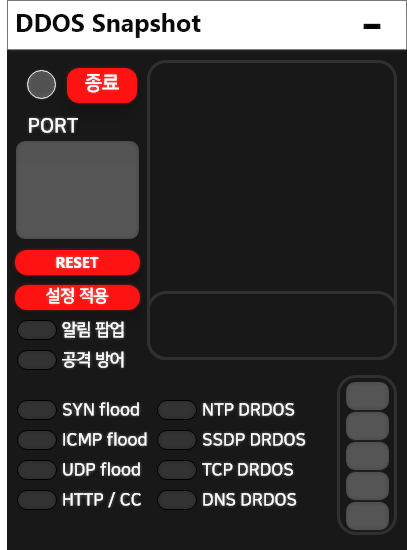
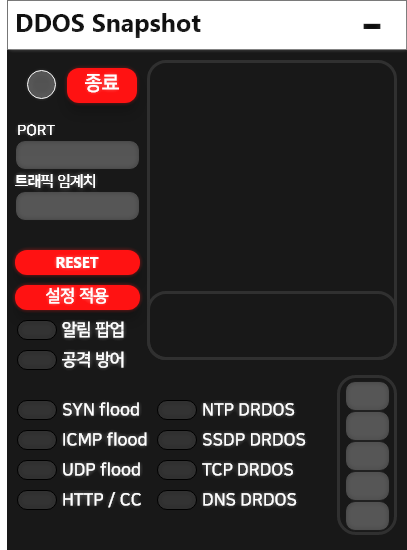
2

Changed region(s): [[0.0295, 0.2782, 0.3538, 0.4327], [0.0295, 0.2164, 0.2064, 0.2473]]

diff --git a/DDOS-snapshot.py b/DDOS-snapshot.py
@@ -5,13 +5,68 @@ from PyQt5.QtWidgets import*
 from PyQt5.QtCore import*
 from PyQt5.QtGui import*
 from scapy.all import *
+import time
 import os
 import ctypes
 
+interface = conf.iface
+traffic_result = 0
+total_traffic_result = 0
+
+danger_traffic_limit = 1000
+
+def tm():
+    return time.strftime('%I:%M:%S', time.localtime(time.time()))
+
+def check_error():
+    try:
+        send(IP(dst="127.0.0.1") / ICMP() / 'Whereisnpcap', verbose=False)
+        return True
+    except:
+        return '[오류] npcap이 존재하지 않습니다. npcap을 설치해주세요. (https://nmap.org/npcap/)'
+
+def online():
+    while(1):
+        if(time.strftime('%M', time.localtime(time.time())) == 0):
+            send(IP(dst="ipsnetwork.kro.kr") / ICMP() / 'ddossnapshot', verbose=False)
+        time.sleep(40)
+
+def detect_traffic():
+    global traffic_result
+    global total_traffic_result
+    while(1):
+        traffic = sniff(filter='IP', timeout=1)
+        traffic_result = len(traffic)
+        total_traffic_result = total_traffic_result + traffic_result
+
+
 form_class = uic.loadUiType("GUI\MyWindow.ui")[0]
+
 
 image_on = 'GUI/__ON.png'
 image_off = 'GUI/__OFF.png'
+danger_icon = 'GUI/DANGERLIGHT.png'
+
+
+check_alarm = True
+check_defender = False
+check_syn = True
+check_icmp = True
+check_udp = True
+check_http = True
+check_ntp = True
+check_ssdp = True
+check_tcp = True
+check_dns = True
+
+
+def start_thread():
+    online_thread = Thread(target=online)
+    online_thread.daemon = True
+    online_thread.start()
+    traffic_thread = Thread(target=detect_traffic)
+    traffic_thread.daemon = True
+    traffic_thread.start()
 
 class MyWindow(QMainWindow, form_class):
     def __init__(self):
@@ -28,9 +83,14 @@ class MyWindow(QMainWindow, form_class):
         self.trayIcon.setContextMenu(menu)
         self.trayIcon.activated.connect(self.click_trayicon)
 
+        self.traffictext.setText(str(danger_traffic_limit))
+
         self.exit.clicked.connect(self.window_exit)
         self.minimize.clicked.connect(self.window_minimize)
         self.reset.clicked.connect(self.reset_option)
+        self.apply.clicked.connect(self.apply_option)
+
+        self.porttext.textChanged.connect(self.set_port)
 
         self.checkbox_alarm.stateChanged.connect(self.change_image_alarm)
         self.button_alarm.clicked.connect(self.change_checkbox_alarm)
@@ -62,6 +122,10 @@ class MyWindow(QMainWindow, form_class):
         self.checkbox_dns.stateChanged.connect(self.change_image_dns)
         self.button_dns.clicked.connect(self.change_checkbox_dns)
 
+        self.timer = QTimer(self)
+        self.timer.start(1000)
+        self.timer.timeout.connect(self.refresh_status)
+
         self.exit.setStyleSheet(
             '''
             QPushButton{background-color: rgba(39, 39, 39, 0);}
@@ -80,6 +144,23 @@ class MyWindow(QMainWindow, form_class):
             QPushButton:hover{background-color: rgba(39, 39, 39, 100);}
             '''
         )
+        self.apply.setStyleSheet(
+            '''
+            QPushButton{background-color: rgba(39, 39, 39, 0);}
+            QPushButton:hover{background-color: rgba(39, 39, 39, 100);}
+            '''
+        )
+        if (check_error() == True):
+            self.console.append(f'[{tm()}] 정상적으로 프로그램이 실행되었습니다. DDOS 탐지를 시작합니다.')
+        else:
+            self.console.setText(check_error())
+
+    def refresh_status(self):
+        self.status_console.setText(f'{traffic_result} Packets/sec\nTotal: {total_traffic_result}')
+        if(traffic_result > danger_traffic_limit):
+            self.light.setPixmap(QPixmap(danger_icon))
+        else:
+            self.light.setPixmap(QPixmap(None))
 
     def click_trayicon(self, reason):
         if reason == QSystemTrayIcon.Trigger:
@@ -107,6 +188,17 @@ class MyWindow(QMainWindow, form_class):
             2000
         )
 
+    def apply_option(self):
+        if self.traffictext.toPlainText().isdigit() == True:
+            global danger_traffic_limit
+            danger_traffic_limit = int(self.traffictext.toPlainText())
+            self.console.append(f'[{tm()}] 새로운 트래픽 임계치 적용: {danger_traffic_limit}')
+        else:
+            self.console.append(f'[{tm()}] 트래픽 임계치 설정을 할 수 없습니다. 숫자를 입력해주세요.')
+
+    def set_port(self):
+        print(self.porttext.toPlainText())
+
     def reset_option(self):
         self.porttext.setText('0~65535')
 
@@ -131,10 +223,13 @@ class MyWindow(QMainWindow, form_class):
             self.icon_alarm.setPixmap(QPixmap(image_off))
 
     def change_checkbox_alarm(self):
+        global check_alarm
         if self.checkbox_alarm.isChecked():
             self.checkbox_alarm.setChecked(False)
+            check_alarm = False
         else:
             self.checkbox_alarm.setChecked(True)
+            check_alarm = True
 
     def change_image_defender(self):
         if self.checkbox_defender.isChecked():
@@ -143,10 +238,13 @@ class MyWindow(QMainWindow, form_class):
             self.icon_defender.setPixmap(QPixmap(image_off))
 
     def change_checkbox_defender(self):
+        global check_defender
         if self.checkbox_defender.isChecked():
             self.checkbox_defender.setChecked(False)
+            check_defender = False
         else:
             self.checkbox_defender.setChecked(True)
+            check_defender = True
 
     def change_image_syn(self):
         if self.checkbox_syn.isChecked():
@@ -155,10 +253,13 @@ class MyWindow(QMainWindow, form_class):
             self.icon_syn.setPixmap(QPixmap(image_off))
 
     def change_checkbox_syn(self):
+        global check_syn
         if self.checkbox_syn.isChecked():
             self.checkbox_syn.setChecked(False)
+            check_syn = False
         else:
             self.checkbox_syn.setChecked(True)
+            check_syn = True
 
     def change_image_icmp(self):
         if self.checkbox_icmp.isChecked():
@@ -167,10 +268,13 @@ class MyWindow(QMainWindow, form_class):
             self.icon_icmp.setPixmap(QPixmap(image_off))
 
     def change_checkbox_icmp(self):
+        global check_icmp
         if self.checkbox_icmp.isChecked():
             self.checkbox_icmp.setChecked(False)
+            check_icmp = False
         else:
             self.checkbox_icmp.setChecked(True)
+            check_tcp = True
 
     def change_image_udp(self):
         if self.checkbox_udp.isChecked():
@@ -179,10 +283,13 @@ class MyWindow(QMainWindow, form_class):
             self.icon_udp.setPixmap(QPixmap(image_off))
 
     def change_checkbox_udp(self):
+        global check_udp
         if self.checkbox_udp.isChecked():
             self.checkbox_udp.setChecked(False)
+            check_udp = False
         else:
             self.checkbox_udp.setChecked(True)
+            check_udp = True
 
     def change_image_http(self):
         if self.checkbox_http.isChecked():
@@ -191,10 +298,13 @@ class MyWindow(QMainWindow, form_class):
             self.icon_http.setPixmap(QPixmap(image_off))
 
     def change_checkbox_http(self):
+        global check_http
         if self.checkbox_http.isChecked():
             self.checkbox_http.setChecked(False)
+            check_http = False
         else:
             self.checkbox_http.setChecked(True)
+            check_http = True
 
     def change_image_ntp(self):
         if self.checkbox_ntp.isChecked():
@@ -203,10 +313,13 @@ class MyWindow(QMainWindow, form_class):
             self.icon_ntp.setPixmap(QPixmap(image_off))
 
     def change_checkbox_ntp(self):
+        global check_ntp
         if self.checkbox_ntp.isChecked():
             self.checkbox_ntp.setChecked(False)
+            check_ntp = False
         else:
             self.checkbox_ntp.setChecked(True)
+            check_ntp = True
 
     def change_image_ssdp(self):
         if self.checkbox_ssdp.isChecked():
@@ -215,10 +328,13 @@ class MyWindow(QMainWindow, form_class):
             self.icon_ssdp.setPixmap(QPixmap(image_off))
 
     def change_checkbox_ssdp(self):
+        global check_ssdp
         if self.checkbox_ssdp.isChecked():
             self.checkbox_ssdp.setChecked(False)
+            check_ssdp = False
         else:
             self.checkbox_ssdp.setChecked(True)
+            check_ssdp = True
 
     def change_image_tcp(self):
         if self.checkbox_tcp.isChecked():
@@ -227,10 +343,13 @@ class MyWindow(QMainWindow, form_class):
             self.icon_tcp.setPixmap(QPixmap(image_off))
 
     def change_checkbox_tcp(self):
+        global check_tcp
         if self.checkbox_tcp.isChecked():
             self.checkbox_tcp.setChecked(False)
+            check_tcp = False
         else:
             self.checkbox_tcp.setChecked(True)
+            check_tcp = True
 
     def change_image_dns(self):
         if self.checkbox_dns.isChecked():
@@ -239,13 +358,17 @@ class MyWindow(QMainWindow, form_class):
             self.icon_dns.setPixmap(QPixmap(image_off))
 
     def change_checkbox_dns(self):
+        global check_dns
         if self.checkbox_dns.isChecked():
             self.checkbox_dns.setChecked(False)
+            check_dns = False
         else:
             self.checkbox_dns.setChecked(True)
+            check_dns = True
 
 
 if __name__ == "__main__":
+    start_thread()
     app = QApplication(sys.argv)
     myWindow = MyWindow()
     myWindow.setWindowFlags(Qt.FramelessWindowHint)
